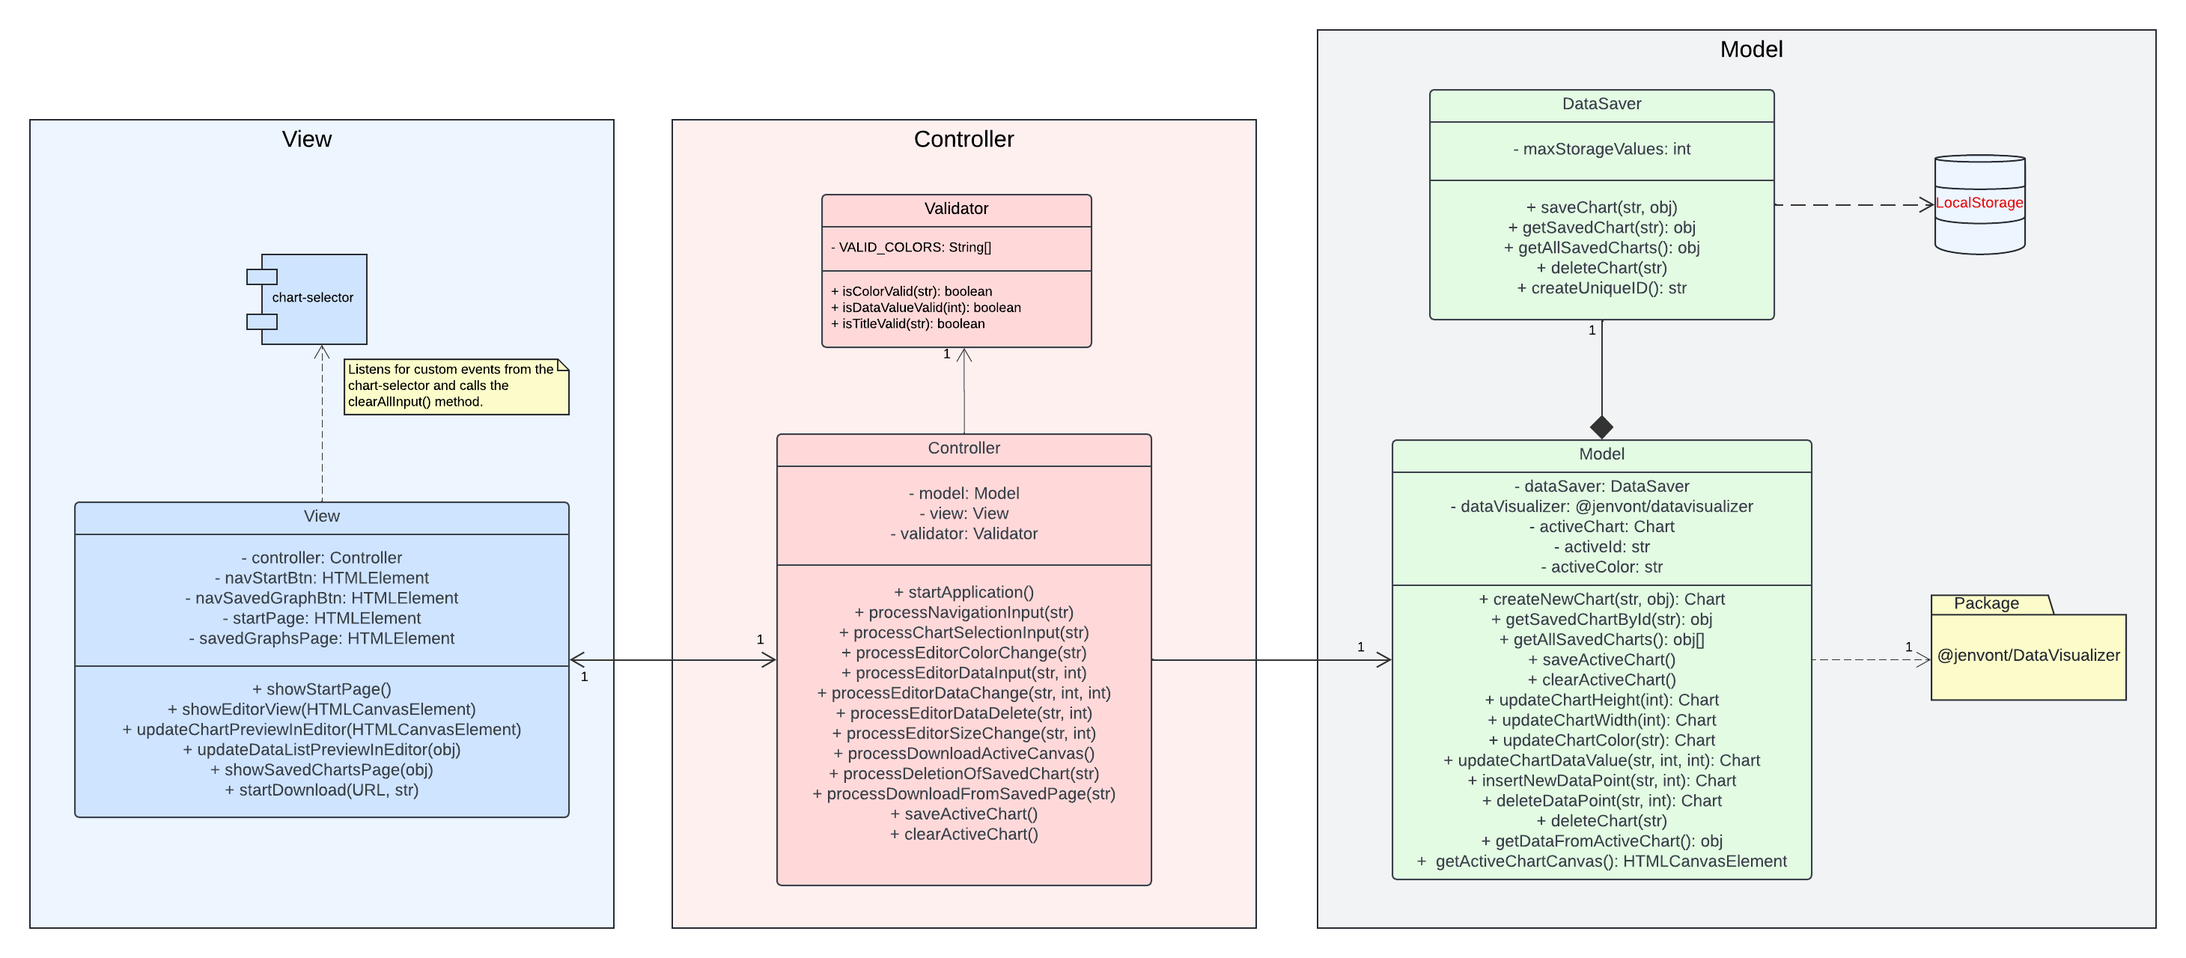
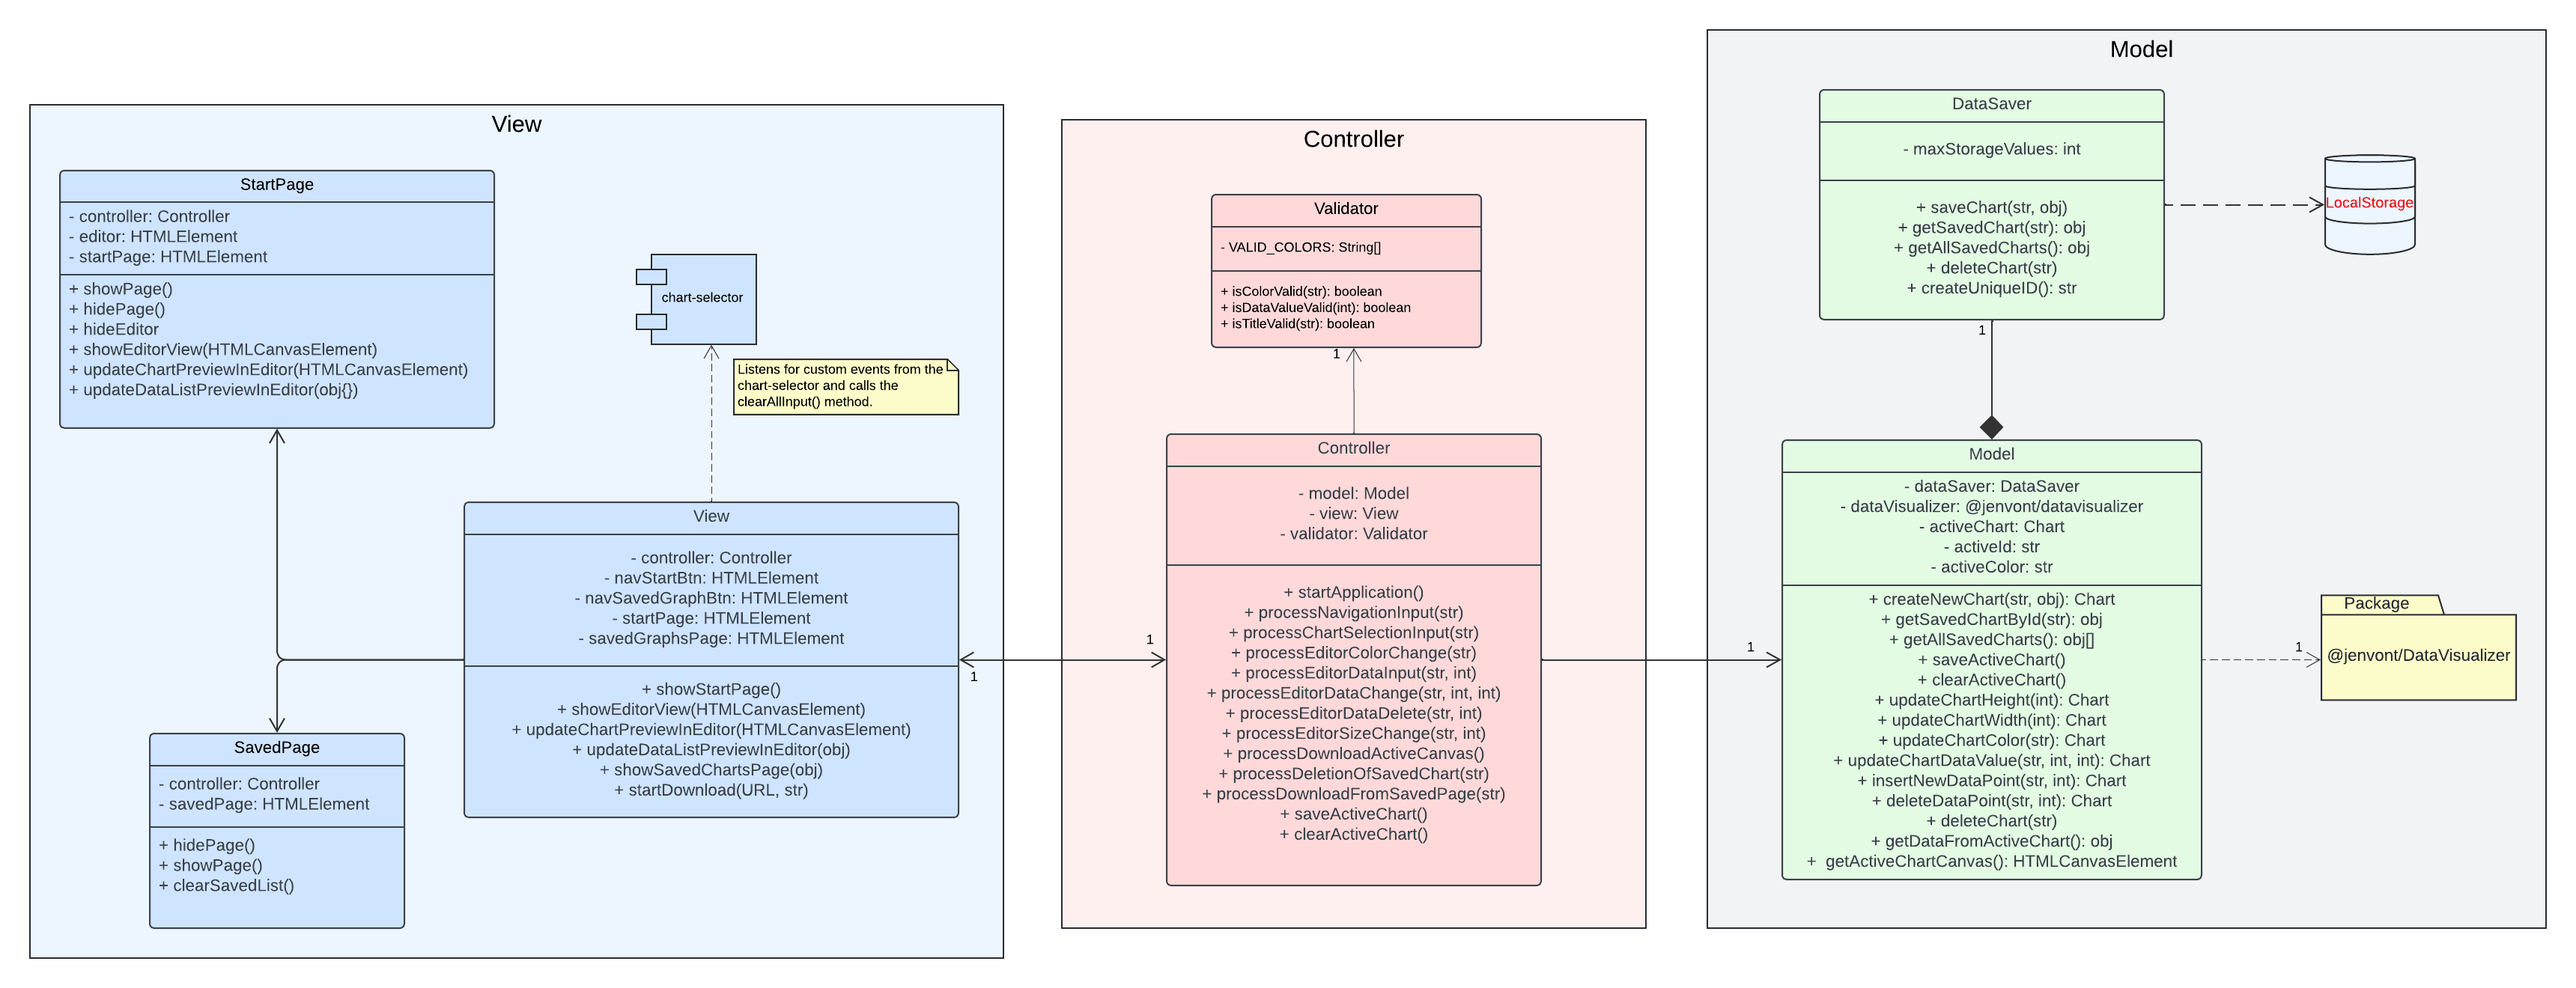
Encapsulate some methods in the views and update the class diagram

diff --git a/src/view/startPageView.js b/src/view/startPageView.js
@@ -22,7 +22,12 @@ export default class StartPage {
 
     this.#startPage.classList.remove('hidden')
 
-    this.clearEditorPreview()
+    this.#hideEditor()
+    this.#clearEditorPreview()
+  }
+
+  #hideEditor() {
+    this.#editor.classList.add('hidden')
   }
 
   #configureStartingSelectButtons () {
@@ -55,20 +60,16 @@ export default class StartPage {
     }
   }
 
-  clear () {
+  hidePage () {
     this.#startPage.classList.add('hidden')
-    this.clearEditorPreview()
+    this.#clearEditorPreview()
     this.hideEditor()
   }
 
-  hideEditor() {
-    this.#editor.classList.add('hidden')
-  }
-
-  clearEditorPreview () {
+  #clearEditorPreview () {
     this.#clearEditorInputs()
     this.#clearChartPreview()
-    this.clearDataListPreview()
+    this.#clearDataListPreview()
   }
 
   #clearEditorInputs () {
@@ -89,7 +90,7 @@ export default class StartPage {
     }
   }
 
-  clearDataListPreview () {
+  #clearDataListPreview () {
     const dataListPreview = document.querySelector('#data_list_preview')
 
     if (dataListPreview) {
@@ -114,7 +115,7 @@ export default class StartPage {
   }
 
   updateDataListPreviewInEditor (updatedDatapoints) {
-    this.clearDataListPreview()
+    this.#clearDataListPreview()
 
     const dataPointList = document.querySelector('#data_list_preview')
     dataPointList.append(this.#createDataList(updatedDatapoints))
@@ -160,7 +161,7 @@ export default class StartPage {
     const canvasType = document.querySelector('canvas').getAttribute('class')
     const updateTypeName = `create${canvasType.charAt(0).toUpperCase() + canvasType.slice(1)}`
 
-    this.clearEditorPreview()
+    this.#clearEditorPreview()
     this.#controller.processChartSelectionInput(updateTypeName)
   }
 

diff --git a/src/view/view.js b/src/view/view.js
@@ -68,8 +68,8 @@ export default class View {
   }
 
   showSavedChartsPage (savedCharts) {
-    this.#startPage.clear()
-    this.#savedPage.showSavedChartsPage(savedCharts)
+    this.#startPage.hidePage()
+    this.#savedPage.showPage(savedCharts)
   }
 
   startDownload (downloadURL, chartType) {

diff --git a/src/view/savedPageView.js b/src/view/savedPageView.js
@@ -25,7 +25,7 @@ export default class SavedPage {
     chartWrapper.innerHTML = ''
   }
 
-  showSavedChartsPage (savedCharts) {
+  showPage (savedCharts) {
     this.clearSavedList()
 
     for (const chart of savedCharts) {
